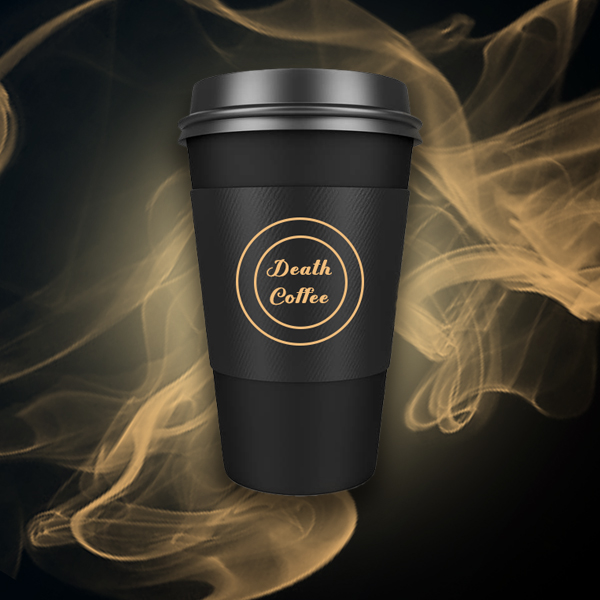
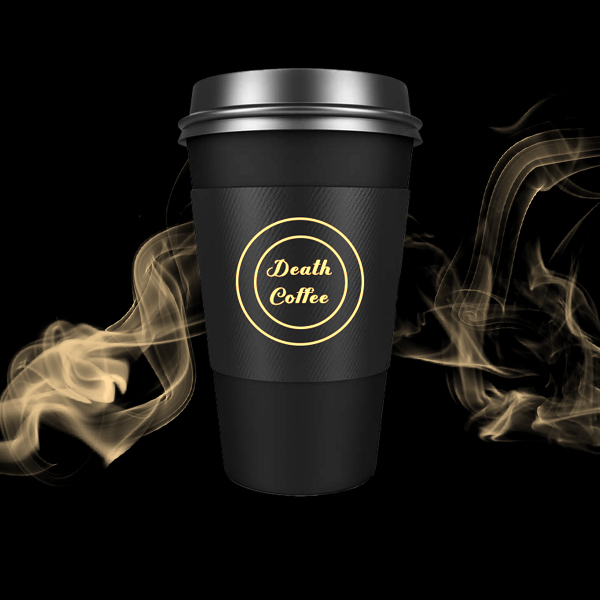
font

diff --git a/src/components/Menu/Menu.jsx b/src/components/Menu/Menu.jsx
@@ -10,24 +10,30 @@ const Menu = () => {
         <span className=" text-primary">Menu</span>
       </h1>
       <div className="grid grid-cols-1 md:grid-cols-3 gap-10 p-5  place-items-center">
-        <div className="w-[300px] ">
-          <img src={menuItem} alt="" className=" rounded-2xl shadow-sm" />
+        <div className="w-[300px]">
+          <div className=" rounded-3xl bg-black">
+            <img src={menuItem} alt="" className=" rounded-2xl shadow-sm " />
+          </div>
           <div className="flex items-center justify-between mt-3">
             <h2 className="text-xl">Standard Coffee</h2>
             <p className="text-xl text-primary">10$</p>
           </div>
           <button className="mt-3 text-primary border-[1px] px-4 py-1 rounded-2xl border-primary tracking-widest text-sm">Add to cart</button>
         </div>
-        <div className="w-[300px] ">
-          <img src={menuItem} alt="" className=" rounded-2xl shadow-sm" />
+        <div className="w-[300px]">
+          <div className=" rounded-3xl bg-black">
+            <img src={menuItem} alt="" className=" rounded-2xl shadow-sm " />
+          </div>
           <div className="flex items-center justify-between mt-3">
             <h2 className="text-xl">Standard Coffee</h2>
             <p className="text-xl text-primary">10$</p>
           </div>
           <button className="mt-3 text-primary border-[1px] px-4 py-1 rounded-2xl border-primary tracking-widest text-sm">Add to cart</button>
         </div>
-        <div className="w-[300px] ">
-          <img src={menuItem} alt="" className=" rounded-2xl shadow-sm" />
+        <div className="w-[300px]">
+          <div className=" rounded-3xl bg-black group">
+            <img src={menuItem} alt="" className=" rounded-2xl shadow-sm" />
+          </div>
           <div className="flex items-center justify-between mt-3">
             <h2 className="text-xl">Standard Coffee</h2>
             <p className="text-xl text-primary">10$</p>

diff --git a/src/index.css b/src/index.css
@@ -1,5 +1,6 @@
 @import url('https://fonts.googleapis.com/css2?family=Poppins:ital,wght@0,100;0,200;0,300;0,400;0,500;0,600;0,700;0,800;0,900;1,100;1,200;1,300;1,400;1,500;1,600;1,700;1,800;1,900&display=swap');
-@import url('https://fonts.googleapis.com/css2?family=Caveat:wght@400..700&family=Playwrite+BE+VLG:wght@100..400&display=swap');
+@import url('https://fonts.googleapis.com/css2?family=Cinzel:wght@400..900&display=swap');
+
 @tailwind base;
 @tailwind components;
 @tailwind utilities;
@@ -10,5 +11,5 @@ body {
     color: rgb(221, 211, 196);
 }
 .title {
-    font-family: "Caveat", cursive;
+    font-family: "Cinzel", serif;
 }

diff --git a/src/components/Hero/Hero.jsx b/src/components/Hero/Hero.jsx
@@ -27,7 +27,7 @@ const Hero = () => {
           className="title text-5xl md:text-6xl cursor-default tracking-tight font-bold"
         >
           <span className=" text-primary relative">
-            Coffee <img src={line} alt="" className=" absolute top-0 right-2" />
+            Coffee 
           </span>
           as you expect <br />
           only for <span className=" text-primary inline-block">you</span>
